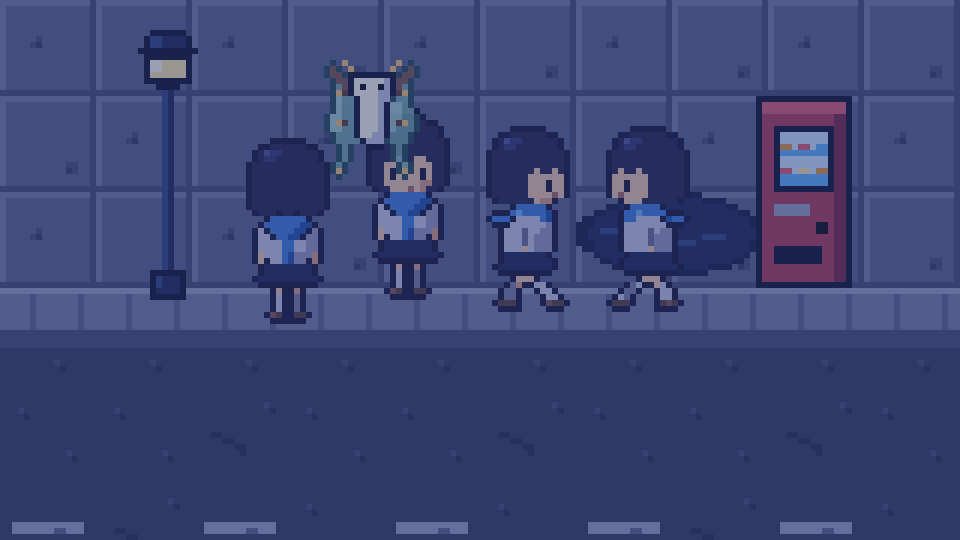
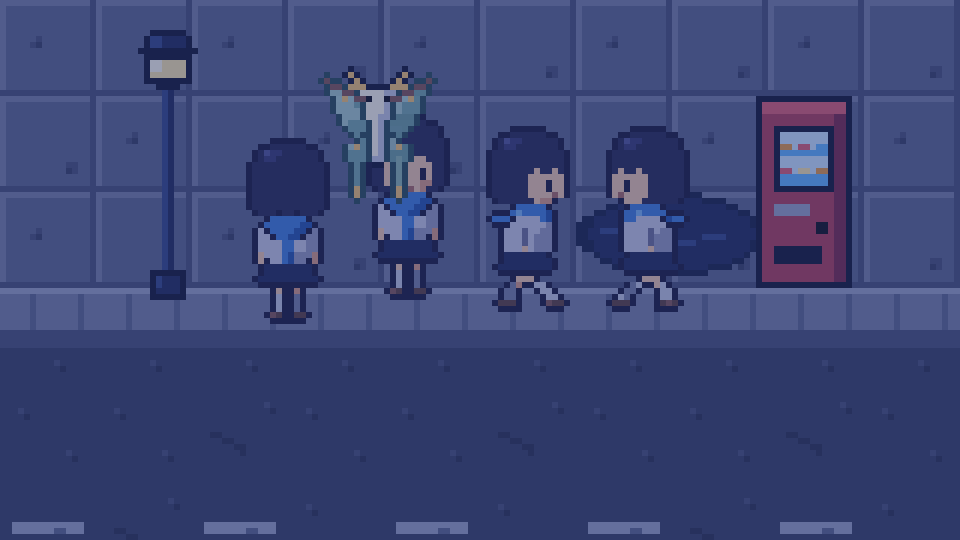
Nemu: rebuild the in-game sprite around the luna moth silhouette
22x24 frames drawn from shapes like the portrait: large pointed triangular
forewings with a thin red-brown costa line, smaller hindwings, 1-dot tails
hanging down with yellow tips, a small head and a 2-dot abdomen (white left,
shade right) instead of the thick body.

Claude-Session: https://claude.ai/code/session_0173agm7cY3duSnSYvLNCKVr

Changed region(s): [[0.3125, 0.1185, 0.4688, 0.3852]]

diff --git a/Tools/Art/nemu.py b/Tools/Art/nemu.py
@@ -117,80 +117,62 @@ def soften_wing_outline(rows):
     return ["".join(r) for r in out]
 
 
-# ================================================================ ゲーム内（20x20、4 コマ）
-# 左半分（10 列）。右端の列が体の中心。y = 目玉模様の黄、S = その暗い点、y（尾の先）
-SPRITE_HALVES = {
-    "spread": [  # 羽を広げる：前羽の前のふち（帯）はほぼ真横、尾はほぼまっすぐ下
-        "...A......",
-        "....A.....",
-        ".....AOOOO",
-        "OOOOOOOFFF",
-        "OCCCCCOFEF",
-        "OWWWWCCOFF",
-        ".OWySWWOFF",
-        "..OWWWWOFF",
-        "...OWWWOFF",
-        "..OOWWWOFF",
-        ".OWWWWWOFF",
-        ".OWWySWOFF",
-        ".OWWWWWOFF",
-        "..OWWWWOOF",
-        "...OWWWOOO",
-        "....OWWO..",
-        "....OWO...",
-        "....OWO...",
-        "...OWO....",
-        "...OyO....",
-    ],
-    "up": [  # 羽を上げる（前羽の先が上を向き、横から見ると細くなる）
-        "..OO.A....",
-        "..OCO.A...",
-        "..OCCOOOOO",
-        "...OCCOFFF",
-        "...OWCOFEF",
-        "...OySOFFF",
-        "...OWWOOFF",
-        "...OWWWOFF",
-        "..OOWWWOFF",
-        "..OWWWWOFF",
-        "..OWySWOFF",
-        "..OWWWWOFF",
-        "...OWWWOFF",
-        "...OWWWOOF",
-        "....OWO.OO",
-        "....OWO...",
-        "....OWO...",
-        "...OWO....",
-        "...OyO....",
-        "...OO.....",
-    ],
-    "down": [  # 羽を下げる（前羽の先が下を向く）
-        "...A......",
-        "....A.....",
-        ".....AOOOO",
-        "......OFFF",
-        "...OOOOFEF",
-        ".OOCCCOFFF",
-        "OCCWWWCOFF",
-        "OWWySWWOFF",
-        ".OWWWWWOFF",
-        "..OOWWWOFF",
-        ".OWWWWWOFF",
-        ".OWWySWOFF",
-        ".OWWWWWOFF",
-        "..OWWWWOOF",
-        "...OWWOOOO",
-        "...OWWO...",
-        "....OWO...",
-        "...OWO....",
-        "...OyO....",
-        "...OO.....",
-    ],
+# ================================================================ ゲーム内（22x24、4 コマ）
+# シルエットだけでオオミズアオとわかるように：大きな三角の前羽、細い体（2 ドット）、小さな頭、長く垂れる尾。
+# 図形（左側の座標）を記号の格子に塗って反転し、顔グラフィックと同じ手順で境目・陰影・輪郭をつける。
+SPRITE_W, SPRITE_H = 22, 24
+
+POSES = {
+    "spread": {  # 羽を広げる：前羽は先のとがった大きな三角、後ろ羽はそれより小さく、細い尾がまっすぐ下へ
+        "fore": [(9, 8), (5, 6), (0, 4), (2, 8), (4, 11), (7, 12), (9, 11)],
+        "hind": [(9, 11), (7, 12), (5, 14), (5, 16), (6, 17), (8, 17), (9, 16)],
+        "tail": ((7, 16), (5, 19), (6, 22)),
+        "spots": [(4, 8), (7, 14)],
+    },
+    "up": {  # 羽を上げる（前羽の先が上を向き、横から見ると細くなる）
+        "fore": [(9, 8), (6, 5), (2, 3), (4, 7), (5, 10), (7, 12), (9, 11)],
+        "hind": [(9, 11), (7, 12), (6, 14), (6, 16), (7, 17), (9, 16)],
+        "tail": ((8, 16), (6, 19), (7, 22)),
+        "spots": [(5, 6), (7, 14)],
+    },
+    "down": {  # 羽を下げる（前羽の先が下を向く）
+        "fore": [(9, 8), (4, 8), (0, 10), (3, 12), (6, 13), (9, 12)],
+        "hind": [(9, 11), (6, 13), (4, 15), (4, 17), (6, 18), (8, 18), (9, 17)],
+        "tail": ((6, 17), (4, 20), (5, 23)),
+        "spots": [(4, 10), (6, 15)],
+    },
 }
 
 
 def sprite(name):
-    return to_image(soften_wing_outline(shade(mirror_half(SPRITE_HALVES[name]), fur_d=1)))
+    pose = POSES[name]
+    gr = Grid(SPRITE_W, SPRITE_H)
+    gr.poly(pose["hind"], "H")
+    tail = curve(*pose["tail"], steps=12)
+    gr.dots(tail, "H")                                                    # 細い尾（1 ドット＋輪郭）
+    tip = max(tail, key=lambda p: p[1])
+    gr.dots([tip, (tip[0], tip[1] - 1)], "y")                             # 尾の先の黄色
+    gr.poly(pose["fore"], "W")
+    # 前羽の前のふちの赤茶の帯：各列のいちばん上の羽の 1 ドット（小さな絵では細い線のほうが実物らしい）
+    for x in range(10):
+        ys = [y for y in range(SPRITE_H) if gr.g[y][x] == "W"]
+        if ys:
+            gr.dots([(x, ys[0])], "C", only={"W"})
+    for (x, y) in pose["spots"]:
+        gr.dots([(x, y)], "y", only={"W", "H"})                            # 目玉模様（黄色の 1 ドット）
+    gr.mirror_left()
+    # 体：小さな頭（横に黒い目）、短い胸、細いおなか（2 ドット：左が白、右が影で細く見える）
+    gr.poly([(9, 5), (12, 5), (12, 7), (9, 7)], "F")
+    gr.dots([(9, 6), (12, 6)], "E")
+    gr.poly([(9, 8), (12, 8), (12, 9), (9, 9)], "F")
+    gr.poly([(10, 10), (11, 10), (11, 16), (10, 16)], "F")
+    gr.dots([(8, 4), (7, 3), (6, 2)], "A")                                 # 触角
+    gr.dots([(13, 4), (14, 3), (15, 2)], "A")
+    rows = fore_hind_line(gr.rows())
+    rows = shade(rows, fur_d=1)
+    rows = inner_lines(rows)
+    rows = outline_rows(rows)
+    return to_image(rows)
 
 
 def sprite_frames():
@@ -203,31 +185,32 @@ SIZE = 48
 
 
 class Grid:
-    """記号の格子（48x48）。図形は記号で塗り、最後に KEY で色にする。"""
+    """記号の格子（顔グラフィックは 48x48、ゲーム内は小さい格子）。図形は記号で塗り、最後に KEY で色にする。"""
 
-    def __init__(self):
-        self.g = [["."] * SIZE for _ in range(SIZE)]
+    def __init__(self, w=None, h=None):
+        self.w, self.h = w or SIZE, h or SIZE
+        self.g = [["."] * self.w for _ in range(self.h)]
 
     def poly(self, points, ch, only=None):
-        m = Image.new("L", (SIZE, SIZE), 0)
+        m = Image.new("L", (self.w, self.h), 0)
         ImageDraw.Draw(m).polygon(points, fill=255)
         self._apply(m, ch, only)
 
     def ellipse(self, box, ch, only=None):
-        m = Image.new("L", (SIZE, SIZE), 0)
+        m = Image.new("L", (self.w, self.h), 0)
         ImageDraw.Draw(m).ellipse(box, fill=255)
         self._apply(m, ch, only)
 
     def _apply(self, m, ch, only):
         px = m.load()
-        for y in range(SIZE):
-            for x in range(SIZE):
+        for y in range(self.h):
+            for x in range(self.w):
                 if px[x, y] and (only is None or self.g[y][x] in only):
                     self.g[y][x] = ch
 
     def dots(self, pts, ch, only=None):
         for (x, y) in pts:
-            if 0 <= x < SIZE and 0 <= y < SIZE and (only is None or self.g[y][x] in only):
+            if 0 <= x < self.w and 0 <= y < self.h and (only is None or self.g[y][x] in only):
                 self.g[y][x] = ch
 
     def stamp(self, rows, x0, y0):
@@ -237,10 +220,10 @@ class Grid:
                     self.g[y0 + y][x0 + x] = ch
 
     def mirror_left(self):
-        """左半分（x < 24）を右半分へ写す。"""
-        for y in range(SIZE):
-            for x in range(SIZE // 2):
-                self.g[y][SIZE - 1 - x] = self.g[y][x]
+        """左半分を右半分へ写す。"""
+        for y in range(self.h):
+            for x in range(self.w // 2):
+                self.g[y][self.w - 1 - x] = self.g[y][x]
 
     def rows(self):
         return ["".join(r) for r in self.g]

diff --git a/Tools/Art/report/pixel_report.md b/Tools/Art/report/pixel_report.md
@@ -20,10 +20,10 @@
 | Characters/Grandma/grandma_idle_1.png | 12 |  | 0 | 2/7 | 1 | 1.9 | 0.0 |  | あごの肌の帯は口まわりの形。2 コマ目の右肩の影は手との境目 |
 | Characters/Keeper/keeper_idle_0.png | 14 |  | 0 | 4/14 | 0 | 1.8 | 0.0 |  | 顔の帯（めがね・口ひげ・鼻のまわり）は形の細部で、陰影の帯ではない |
 | Characters/Keeper/keeper_idle_1.png | 14 |  | 0 | 4/13 | 0 | 2.2 | 0.0 |  | 顔の帯（めがね・口ひげ・鼻のまわり）は形の細部で、陰影の帯ではない |
-| Characters/Nemu/nemu_fly_0.png | 10 |  | 0 | 6/33 | 3 | 4.0 | 0.0 | warm | オオミズアオの模様（前羽の赤茶の帯・目玉模様・尾の先の黄色）と細い体は模様・形で、陰影の帯ではない。ノイズの点は、羽の輪郭（青緑）と体の輪郭（紺）が切り替わる所 |
-| Characters/Nemu/nemu_fly_1.png | 10 |  | 0 | 2/8 | 6 | 5.4 | 0.0 |  | オオミズアオの模様（前羽の赤茶の帯・目玉模様・尾の先の黄色）と細い体は模様・形で、陰影の帯ではない。ノイズの点は、羽の輪郭（青緑）と体の輪郭（紺）が切り替わる所 |
-| Characters/Nemu/nemu_fly_2.png | 10 |  | 0 | 6/33 | 3 | 4.0 | 0.0 | warm | オオミズアオの模様（前羽の赤茶の帯・目玉模様・尾の先の黄色）と細い体は模様・形で、陰影の帯ではない。ノイズの点は、羽の輪郭（青緑）と体の輪郭（紺）が切り替わる所 |
-| Characters/Nemu/nemu_fly_3.png | 10 |  | 0 | 6/29 | 5 | 5.0 | 0.0 |  | オオミズアオの模様（前羽の赤茶の帯・目玉模様・尾の先の黄色）と細い体は模様・形で、陰影の帯ではない。ノイズの点は、羽の輪郭（青緑）と体の輪郭（紺）が切り替わる所 |
+| Characters/Nemu/nemu_fly_0.png | 9 |  | 0 | 5/31 | 4 | 1.8 | 0.0 |  | オオミズアオの模様（前羽の赤茶の帯・目玉模様・尾の先の黄色）と細い体は模様・形で、陰影の帯ではない。ノイズの点は、羽の輪郭（青緑）と体の輪郭（紺）が切り替わる所 |
+| Characters/Nemu/nemu_fly_1.png | 9 |  | 0 | 5/28 | 5 | 2.5 | 0.0 |  | オオミズアオの模様（前羽の赤茶の帯・目玉模様・尾の先の黄色）と細い体は模様・形で、陰影の帯ではない。ノイズの点は、羽の輪郭（青緑）と体の輪郭（紺）が切り替わる所 |
+| Characters/Nemu/nemu_fly_2.png | 9 |  | 0 | 5/31 | 4 | 1.8 | 0.0 |  | オオミズアオの模様（前羽の赤茶の帯・目玉模様・尾の先の黄色）と細い体は模様・形で、陰影の帯ではない。ノイズの点は、羽の輪郭（青緑）と体の輪郭（紺）が切り替わる所 |
+| Characters/Nemu/nemu_fly_3.png | 9 |  | 0 | 6/32 | 4 | 1.8 | 0.0 |  | オオミズアオの模様（前羽の赤茶の帯・目玉模様・尾の先の黄色）と細い体は模様・形で、陰影の帯ではない。ノイズの点は、羽の輪郭（青緑）と体の輪郭（紺）が切り替わる所 |
 | Characters/Ruri/ruri_idle_down_0.png | 16 |  | 0 | 1/3 | 1 | 1.8 | 0.0 |  | 顔の肌の帯（目と髪のあいだ・あご）、口・マフラーのつや・靴のつやの点は形の細部で、陰影の帯や AA ではない |
 | Characters/Ruri/ruri_idle_down_1.png | 16 |  | 0 | 1/3 | 1 | 1.8 | 0.0 |  | 顔の肌の帯（目と髪のあいだ・あご）、口・マフラーのつや・靴のつやの点は形の細部で、陰影の帯や AA ではない |
 | Characters/Ruri/ruri_idle_down_2.png | 16 |  | 0 | 1/3 | 1 | 1.2 | 0.0 |  | 顔の肌の帯（目と髪のあいだ・あご）、口・マフラーのつや・靴のつやの点は形の細部で、陰影の帯や AA ではない |
